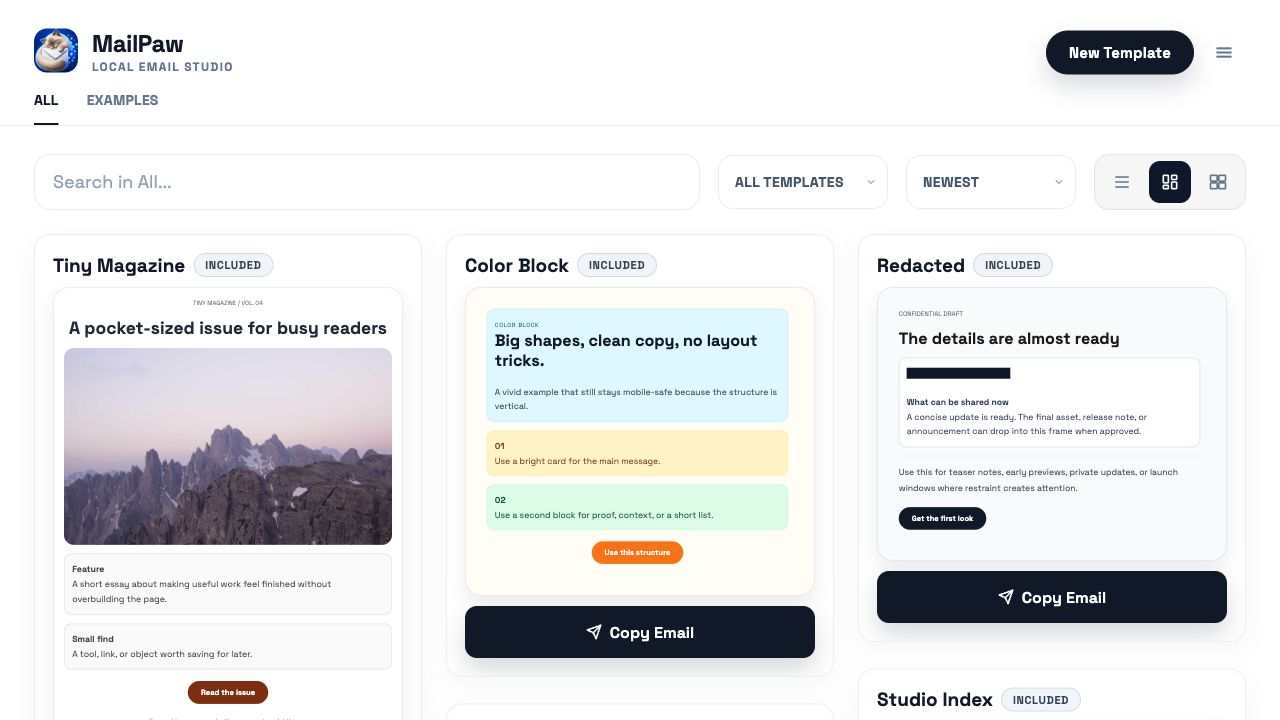
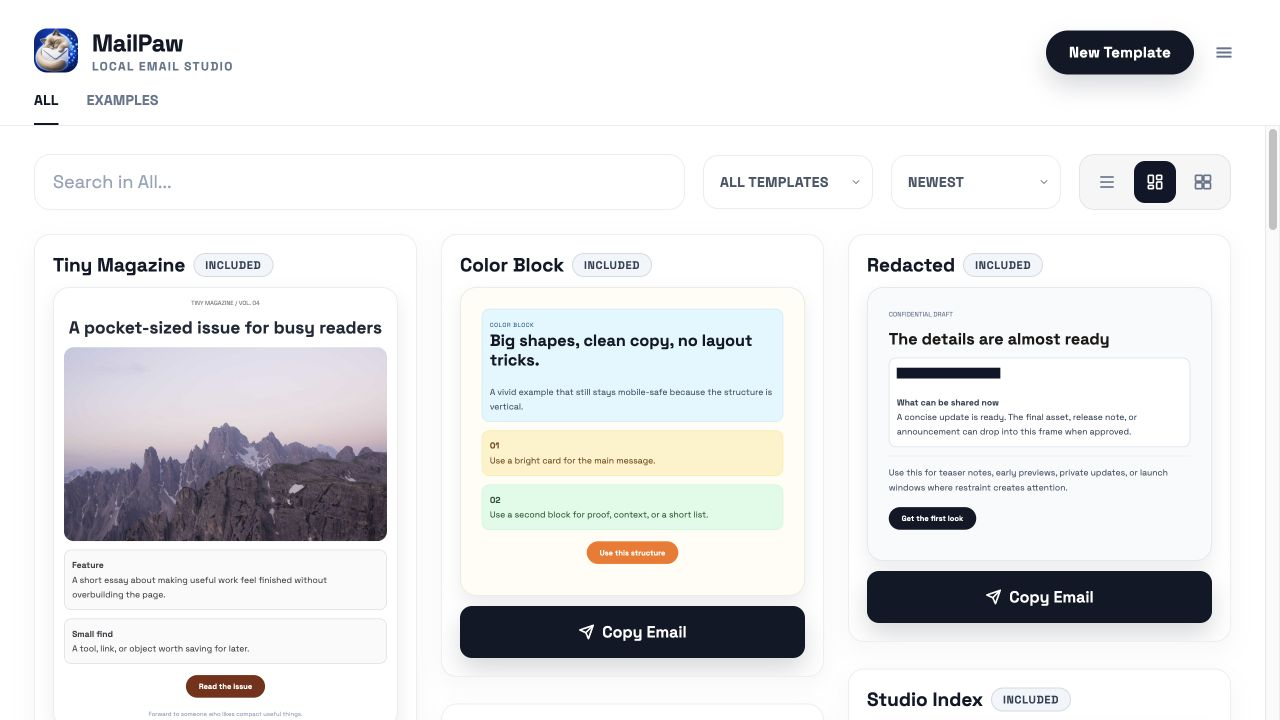
Show template library and editor with example content

diff --git a/README.md b/README.md
@@ -23,6 +23,9 @@ Real app captures. [Explore the full-size showcase](https://barryanders.github.i
 
 ![Included email templates](docs/screenshots/template-library.jpg)
 
+![Template editor with reusable sections and style controls](docs/screenshots/template-editor.jpg)
+
+
 ## Free Email Template Builder
 
 MailPaw helps you create reusable email templates without signing up for a hosted email marketing platform. It is built for people who want a lightweight alternative to tools like Mailchimp, Constant Contact, Beehiiv, ConvertKit, Substack editors, and other campaign builders when they only need to design and reuse good-looking email HTML.

diff --git a/docs/screenshots/README.md b/docs/screenshots/README.md
@@ -1,3 +1,9 @@
 # Screenshot sources
 
-Captured October 26, 2026 from the local app with its included example templates.
+Captured October 29, 2026 from the actual application interface. Example content
+is used throughout; no private libraries, contacts, cookies, or credentials are
+shown. Images are original browser captures, not AI-generated interface mockups
+or enlarged low-resolution copies. Website presentation keeps the complete
+interface and links to the original capture.
+
+The included examples and fictitious contact details are used for these captures.
